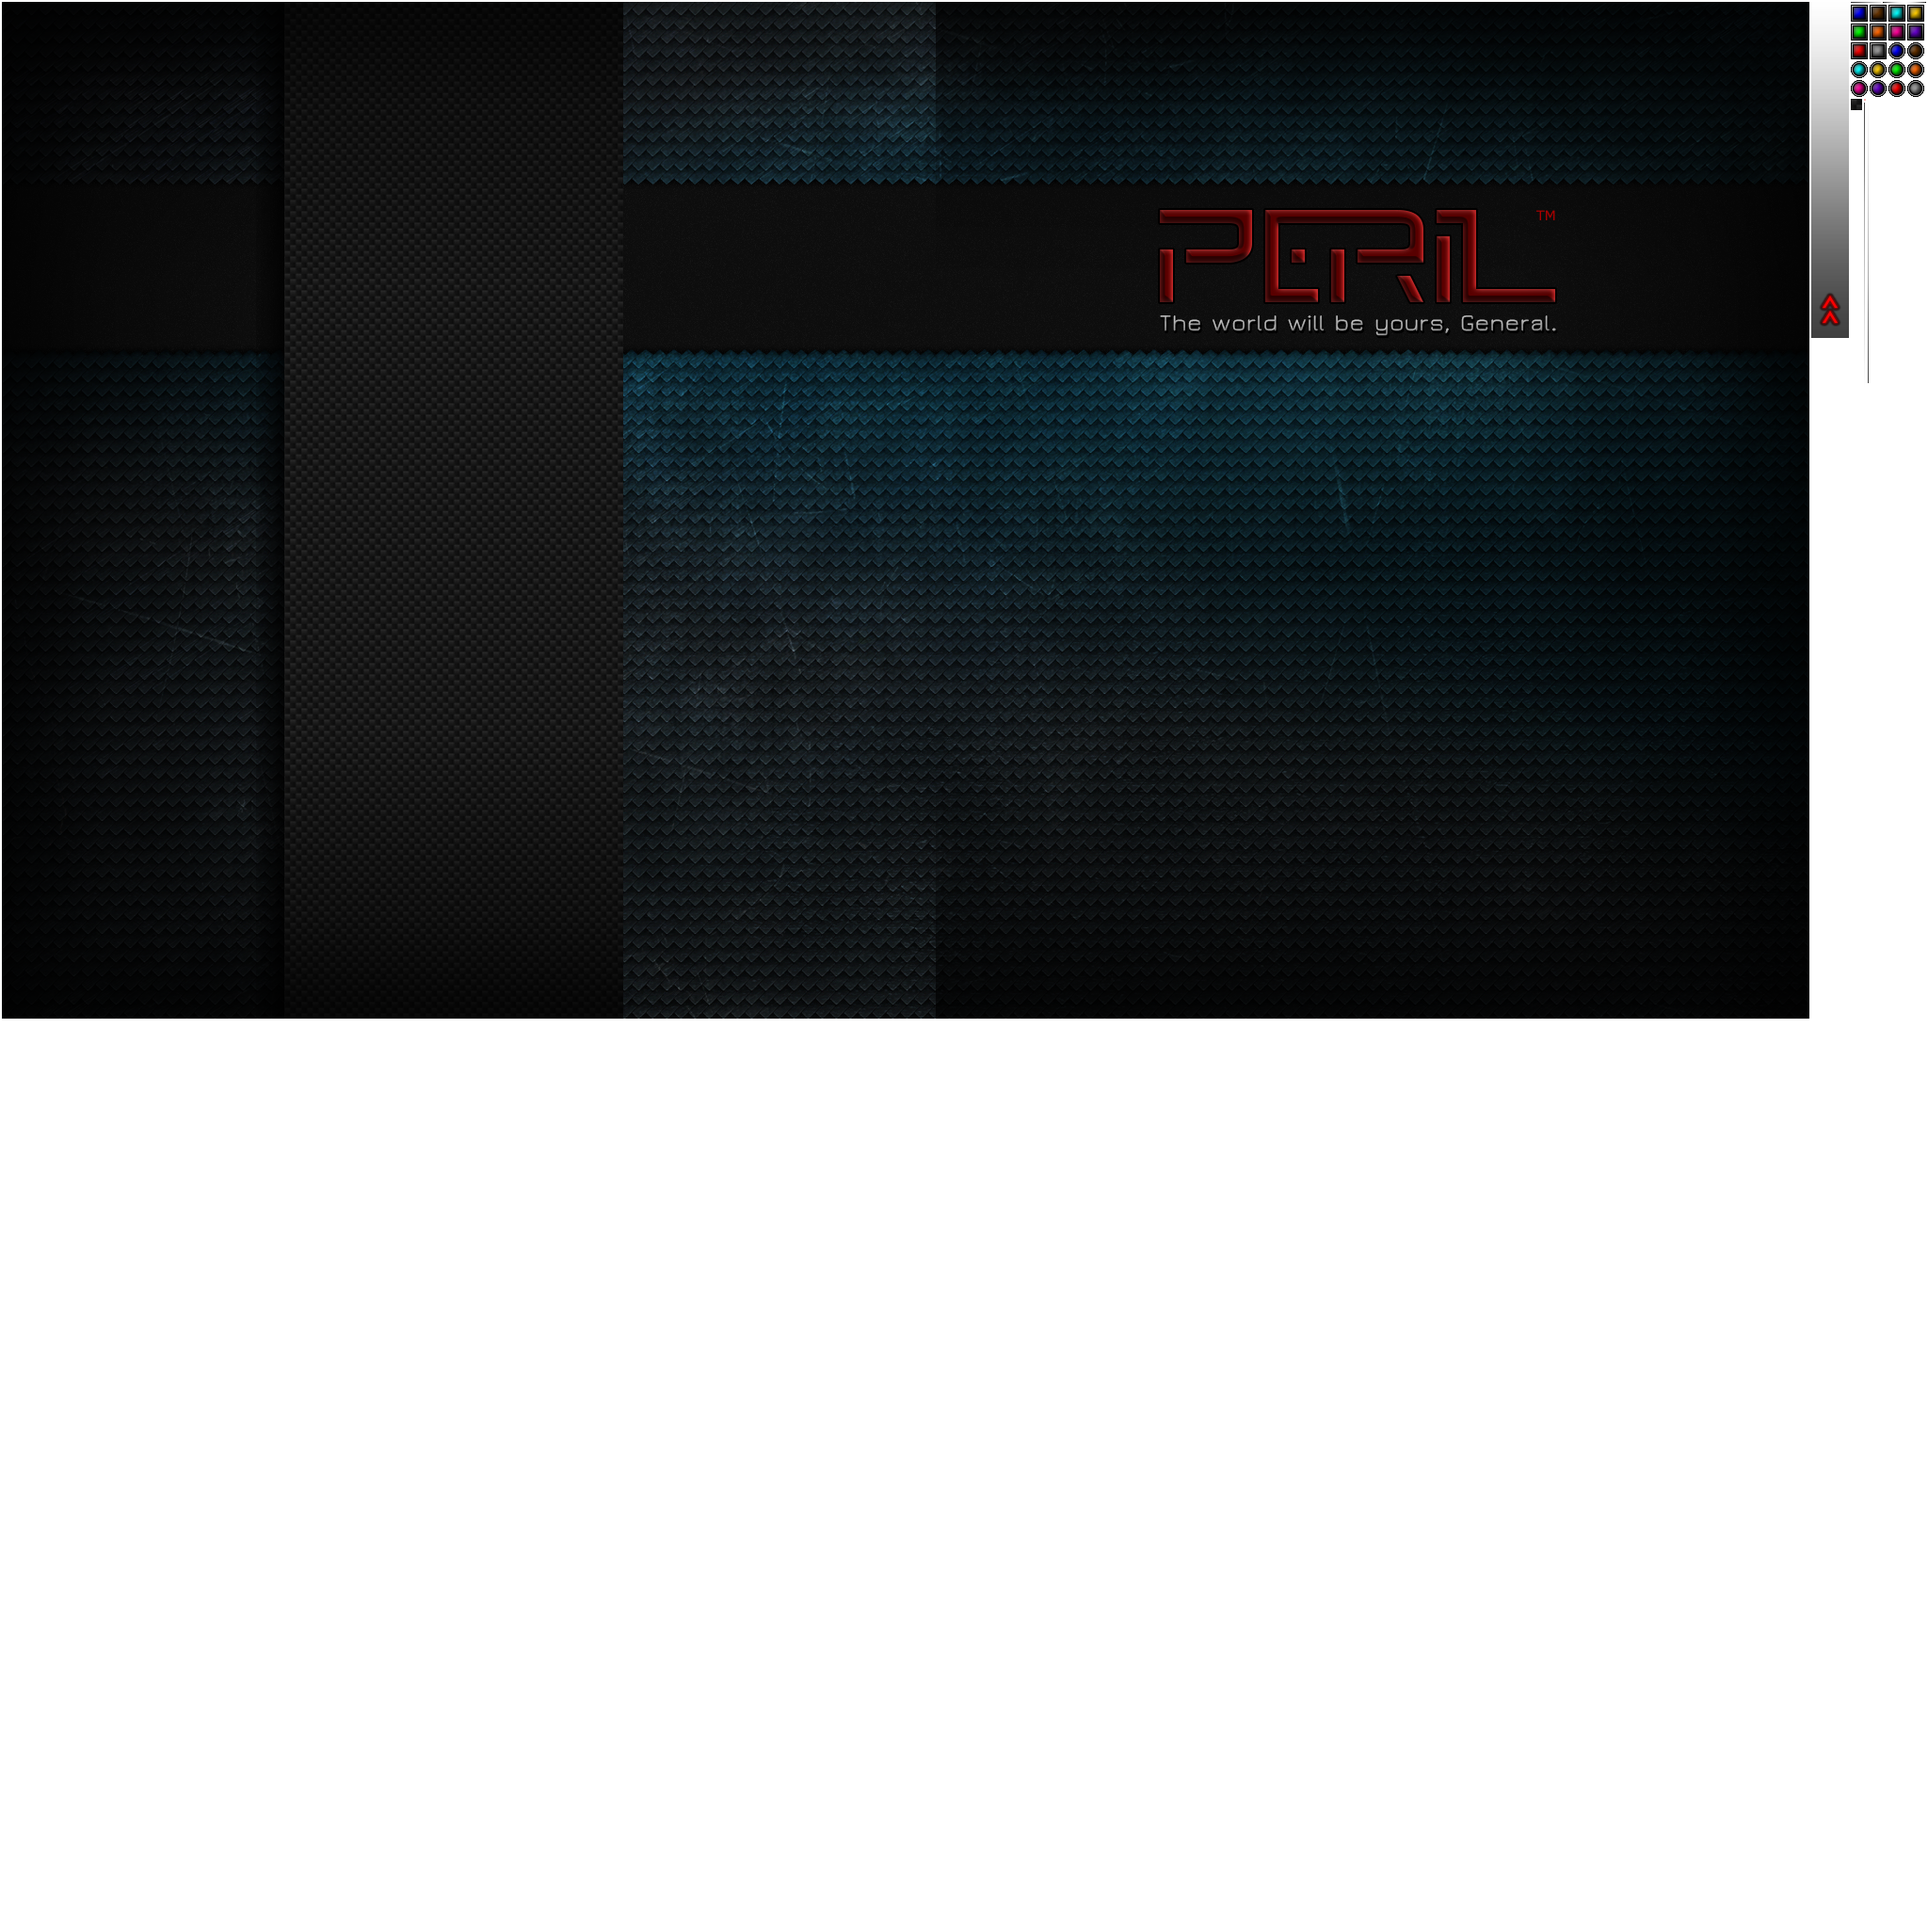
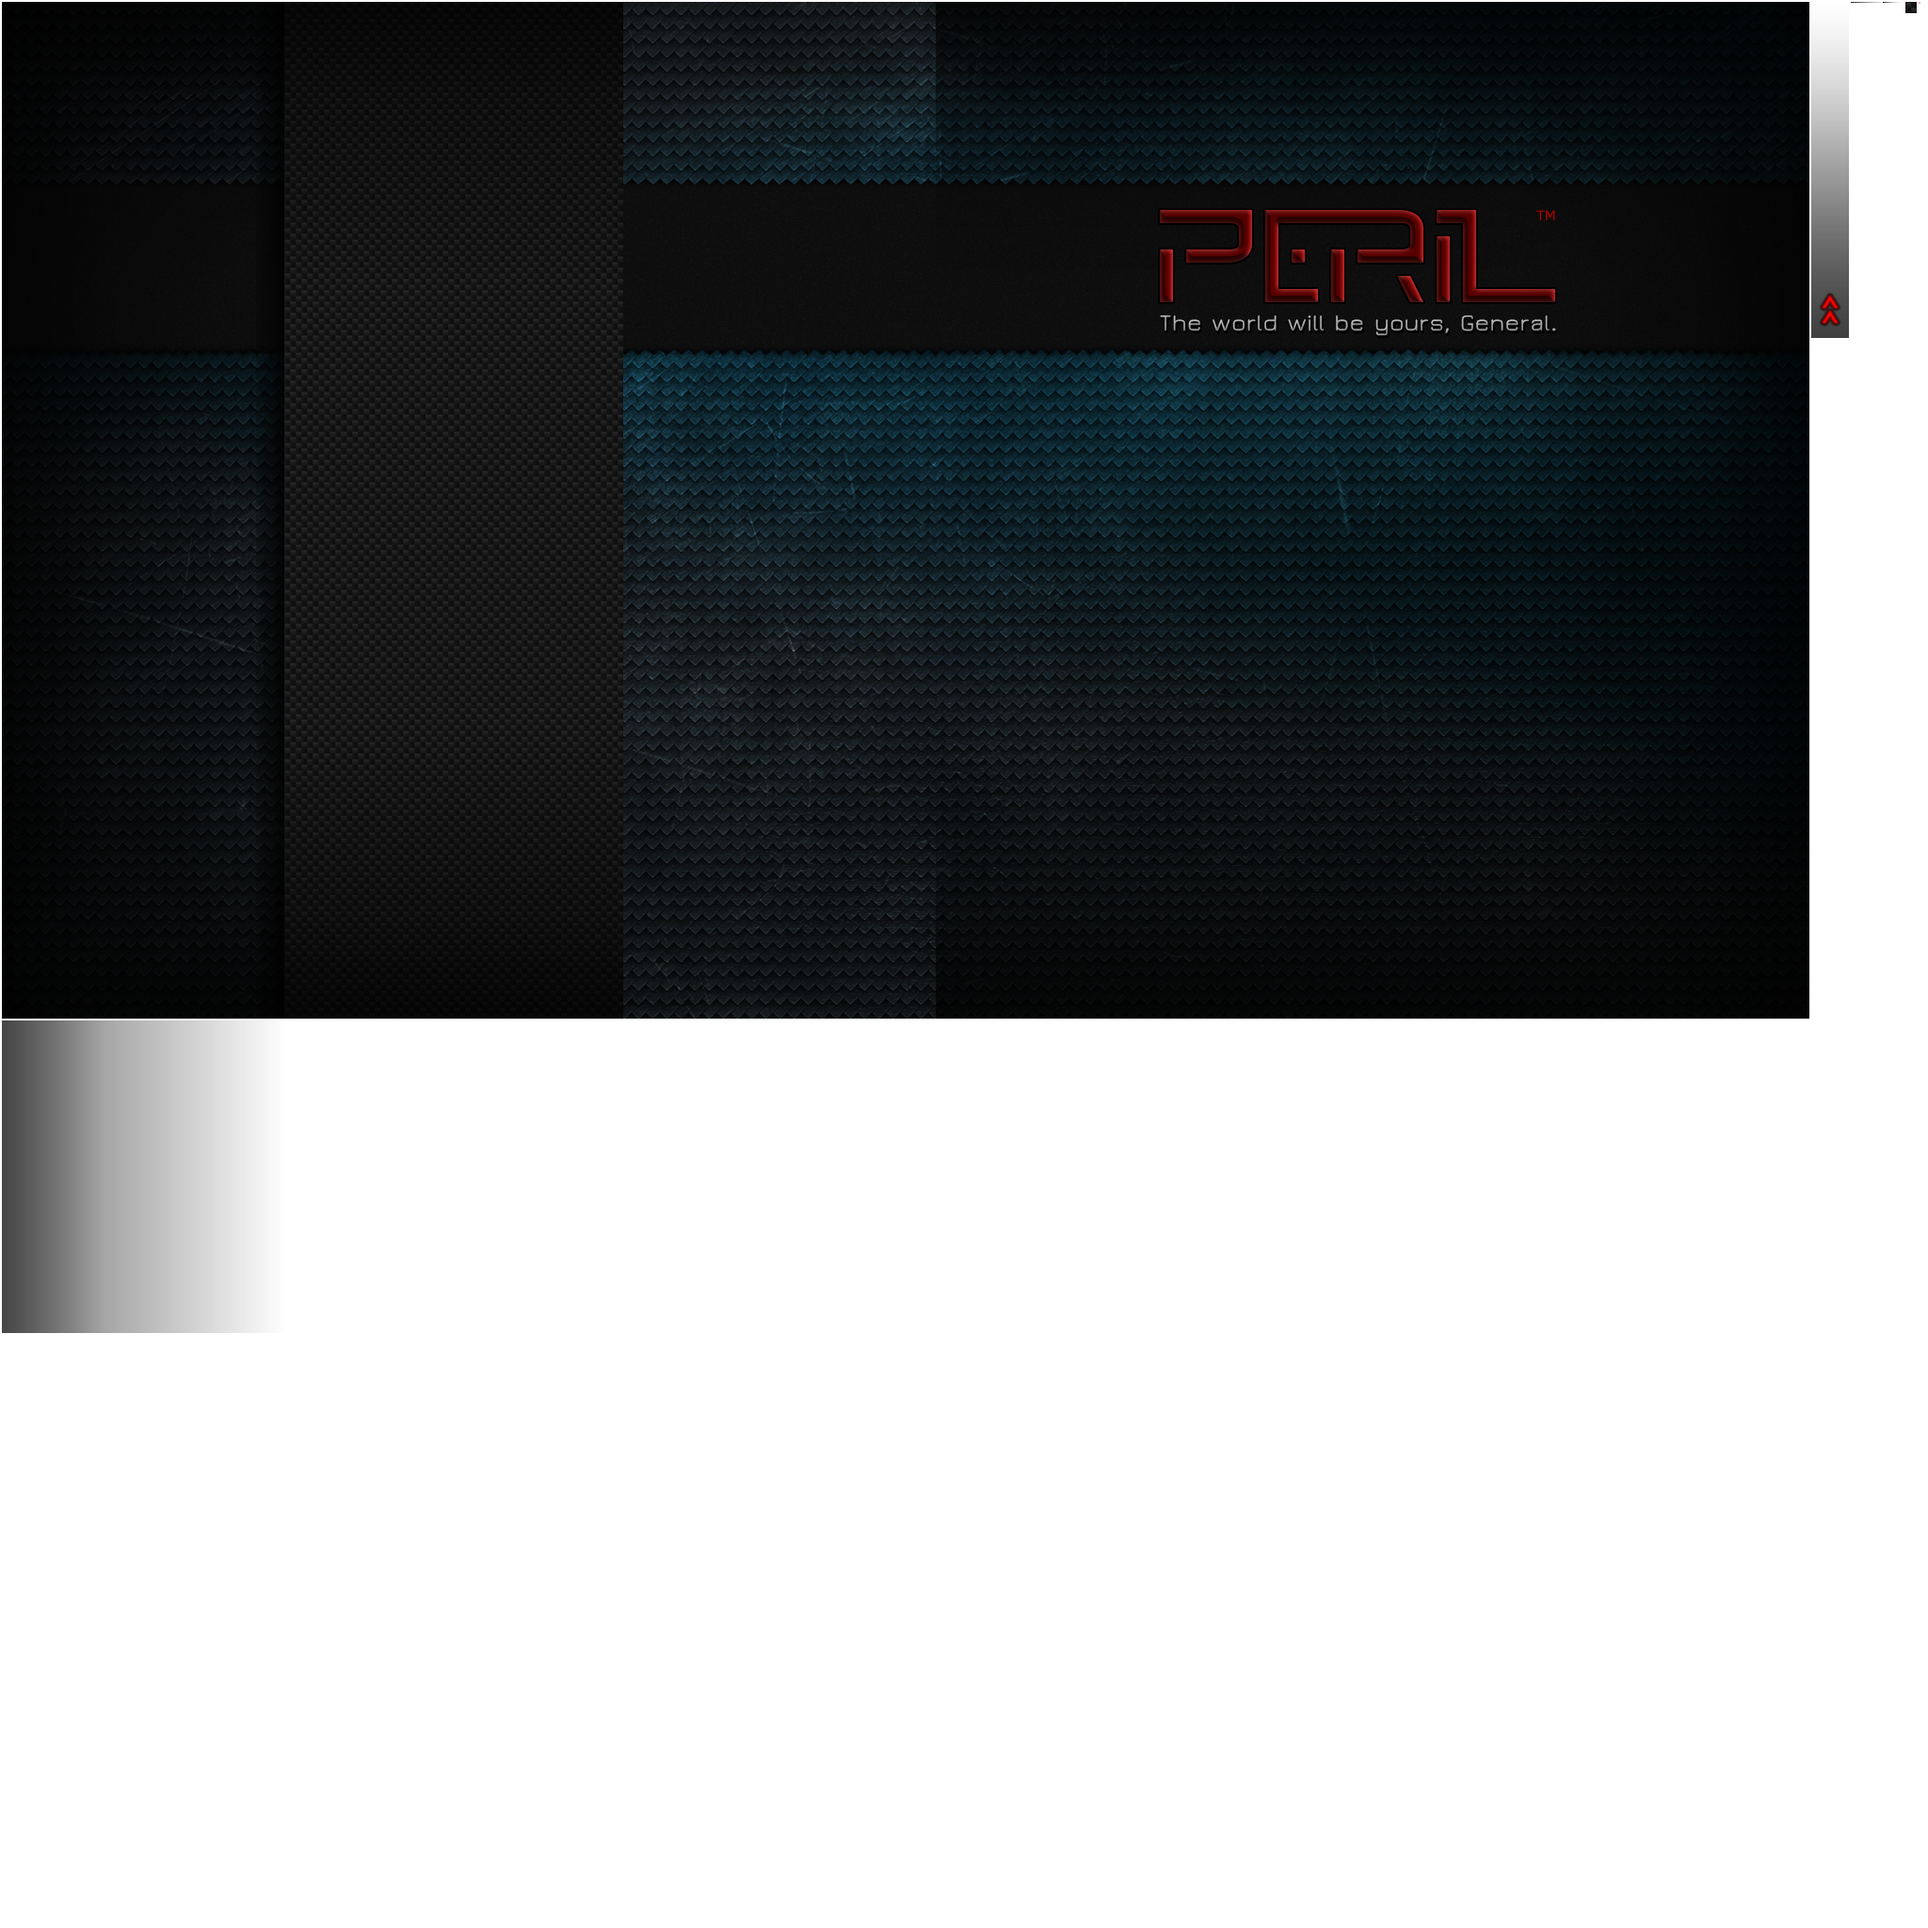
Update menu atlas and main menu shadows.
- Use a single image in menu atlas for top/bottom background shadows to
  save space, and just flip it vertically in the main menu screen for
  the bottom one. Caveat: image's uv texture coords are already rotated 90
  degrees because it was packed in the atlas with a rotation, so
  horizontal & vertical flipping are reversed. The bottom background
  shadow image has to be flipped horizontally in order to flip it
  vertically.

- Use a single image in menu atlas for left/right menu bar shadows, and
  just flip it horizontally in the main menu screen for the right one.

- Remove player/ai colors from menu atlas, as they shouldn't be there
  (they are shared by the play screen, when the menu atlas will be
  disposed).

Changed region(s): [[0.0, 0.5312, 0.125, 0.7188], [0.9375, 0.0, 1.0, 0.0625]]

diff --git a/client/src/main/java/com/forerunnergames/peril/client/ui/screens/menus/main/MainMenuScreen.java b/client/src/main/java/com/forerunnergames/peril/client/ui/screens/menus/main/MainMenuScreen.java
@@ -10,6 +10,8 @@ import com.badlogic.gdx.graphics.Camera;
 import com.badlogic.gdx.graphics.Color;
 import com.badlogic.gdx.graphics.GL20;
 import com.badlogic.gdx.graphics.OrthographicCamera;
+import com.badlogic.gdx.graphics.g2d.Sprite;
+import com.badlogic.gdx.graphics.g2d.TextureRegion;
 import com.badlogic.gdx.scenes.scene2d.Actor;
 import com.badlogic.gdx.scenes.scene2d.Stage;
 import com.badlogic.gdx.scenes.scene2d.Touchable;
@@ -23,7 +25,6 @@ import com.badlogic.gdx.scenes.scene2d.ui.Table;
 import com.badlogic.gdx.scenes.scene2d.utils.ChangeListener;
 import com.badlogic.gdx.scenes.scene2d.utils.NinePatchDrawable;
 import com.badlogic.gdx.scenes.scene2d.utils.SpriteDrawable;
-import com.badlogic.gdx.scenes.scene2d.utils.TiledDrawable;
 import com.badlogic.gdx.utils.viewport.ScalingViewport;
 import com.badlogic.gdx.utils.viewport.Viewport;
 
@@ -72,14 +73,19 @@ public final class MainMenuScreen extends InputAdapter implements Screen
     // Layer 2 - top & bottom background shadows
     final Table tableL2 = new Table ().top ().left ();
     tableL2.add ().width (660);
-    tableL2.add (new Image (new TiledDrawable (Assets.menuAtlas.findRegion ("topBackgroundShadow")))).width (332)
-            .height (302).fill ();
+
+    final Sprite topAndBottomBackgroundShadow = Assets.menuAtlas.createSprite ("topAndBottomBackgroundShadow");
+
+    tableL2.add (new Image (new SpriteDrawable (topAndBottomBackgroundShadow))).width (332).height (302).fill ();
     tableL2.row ();
     tableL2.add ().colspan (2).expandY ();
     tableL2.row ();
     tableL2.add ();
-    tableL2.add (new Image (new TiledDrawable (Assets.menuAtlas.findRegion ("bottomBackgroundShadow")))).width (332)
-            .height (302).fill ();
+
+    final Sprite bottomBackgroundShadow = new Sprite (topAndBottomBackgroundShadow);
+    bottomBackgroundShadow.flip (true, false);
+
+    tableL2.add (new Image (new SpriteDrawable (bottomBackgroundShadow))).width (332).height (302).fill ();
     rootStack.add (tableL2);
 
     // Layer 3 - title background
@@ -87,8 +93,7 @@ public final class MainMenuScreen extends InputAdapter implements Screen
     tableL3.add ().width (301).height (400);
     tableL3.row ();
     tableL3.add ();
-    tableL3.add (new Image (new NinePatchDrawable (Assets.menuAtlas.createPatch ("menuTitleBackground"))))
-            .size (358, 60).fill ();
+    tableL3.add (new Image (new NinePatchDrawable (Assets.menuAtlas.createPatch ("menuTitleBackground")))).size (358, 60).fill ();
     rootStack.add (tableL3);
 
     // Layer 4 - text & buttons
@@ -96,8 +101,7 @@ public final class MainMenuScreen extends InputAdapter implements Screen
     tableL4.add ().width (301).height (400);
     tableL4.row ();
     tableL4.add ().height (60);
-    tableL4.add (new Label ("Main Menu", new Label.LabelStyle (Assets.skyHookMono31, Color.WHITE))).padLeft (30)
-            .height (37).top ().left ();
+    tableL4.add (new Label ("Main Menu", new Label.LabelStyle (Assets.skyHookMono31, Color.WHITE))).padLeft (30).height (37).top ().left ();
     tableL4.row ();
     tableL4.add ().height (42);
     tableL4.row ();
@@ -109,7 +113,7 @@ public final class MainMenuScreen extends InputAdapter implements Screen
 
     final ImageTextButton singlePlayerButton = new ImageTextButton ("Single Player", buttonStyle);
     final Stack singlePlayerButtonStack = new Stack ();
-    singlePlayerButtonStack.add (new Container <> (singlePlayerButton.getLabel ()).left ().padLeft (60));
+    singlePlayerButtonStack.add (new Container<> (singlePlayerButton.getLabel ()).left ().padLeft (60));
     singlePlayerButtonStack.add (singlePlayerButton.getImage ());
     singlePlayerButton.clearChildren ();
     singlePlayerButton.add (singlePlayerButtonStack).fill ().expand ();
@@ -122,7 +126,7 @@ public final class MainMenuScreen extends InputAdapter implements Screen
 
     final ImageTextButton multiplayerPlayerButton = new ImageTextButton ("Multiplayer", buttonStyle);
     final Stack multiplayerButtonStack = new Stack ();
-    multiplayerButtonStack.add (new Container <> (multiplayerPlayerButton.getLabel ()).left ().padLeft (60));
+    multiplayerButtonStack.add (new Container<> (multiplayerPlayerButton.getLabel ()).left ().padLeft (60));
     multiplayerButtonStack.add (multiplayerPlayerButton.getImage ());
     multiplayerPlayerButton.clearChildren ();
     multiplayerPlayerButton.setSize (358, 40);
@@ -144,7 +148,7 @@ public final class MainMenuScreen extends InputAdapter implements Screen
 
     final ImageTextButton settingsButton = new ImageTextButton ("Settings", buttonStyle);
     final Stack settingsButtonStack = new Stack ();
-    settingsButtonStack.add (new Container <> (settingsButton.getLabel ()).left ().padLeft (60));
+    settingsButtonStack.add (new Container<> (settingsButton.getLabel ()).left ().padLeft (60));
     settingsButtonStack.add (settingsButton.getImage ());
     settingsButton.clearChildren ();
     settingsButton.add (settingsButtonStack).fill ().expand ();
@@ -157,7 +161,7 @@ public final class MainMenuScreen extends InputAdapter implements Screen
 
     final ImageTextButton quitButton = new ImageTextButton ("Quit", buttonStyle);
     final Stack quitButtonStack = new Stack ();
-    quitButtonStack.add (new Container <> (quitButton.getLabel ()).left ().padLeft (60));
+    quitButtonStack.add (new Container<> (quitButton.getLabel ()).left ().padLeft (60));
     quitButtonStack.add (quitButton.getImage ());
     quitButton.clearChildren ();
     quitButton.add (quitButtonStack).fill ().expand ();
@@ -177,9 +181,16 @@ public final class MainMenuScreen extends InputAdapter implements Screen
     // Layer 5 - left & right menu bar shadows
     final Table tableL5 = new Table ().top ().left ();
     tableL5.add ().width (300);
-    tableL5.add (new Image (Assets.menuAtlas.findRegion ("leftMenuBarShadow"))).width (22).expandY ().fill ();
+
+    final TextureRegion leftAndRightMenuBarShadow = Assets.menuAtlas.findRegion ("leftAndRightMenuBarShadow");
+
+    tableL5.add (new Image (leftAndRightMenuBarShadow)).width (22).expandY ().fill ();
     tableL5.add ().width (316);
-    tableL5.add (new Image (Assets.menuAtlas.findRegion ("rightMenuBarShadow"))).width (22).expandY ().fill ();
+
+    final TextureRegion rightMenuBarShadow = new TextureRegion (leftAndRightMenuBarShadow);
+    rightMenuBarShadow.flip (true, false);
+
+    tableL5.add (new Image (rightMenuBarShadow)).width (22).expandY ().fill ();
     tableL5.setTouchable (Touchable.disabled);
     rootStack.add (tableL5);
 
